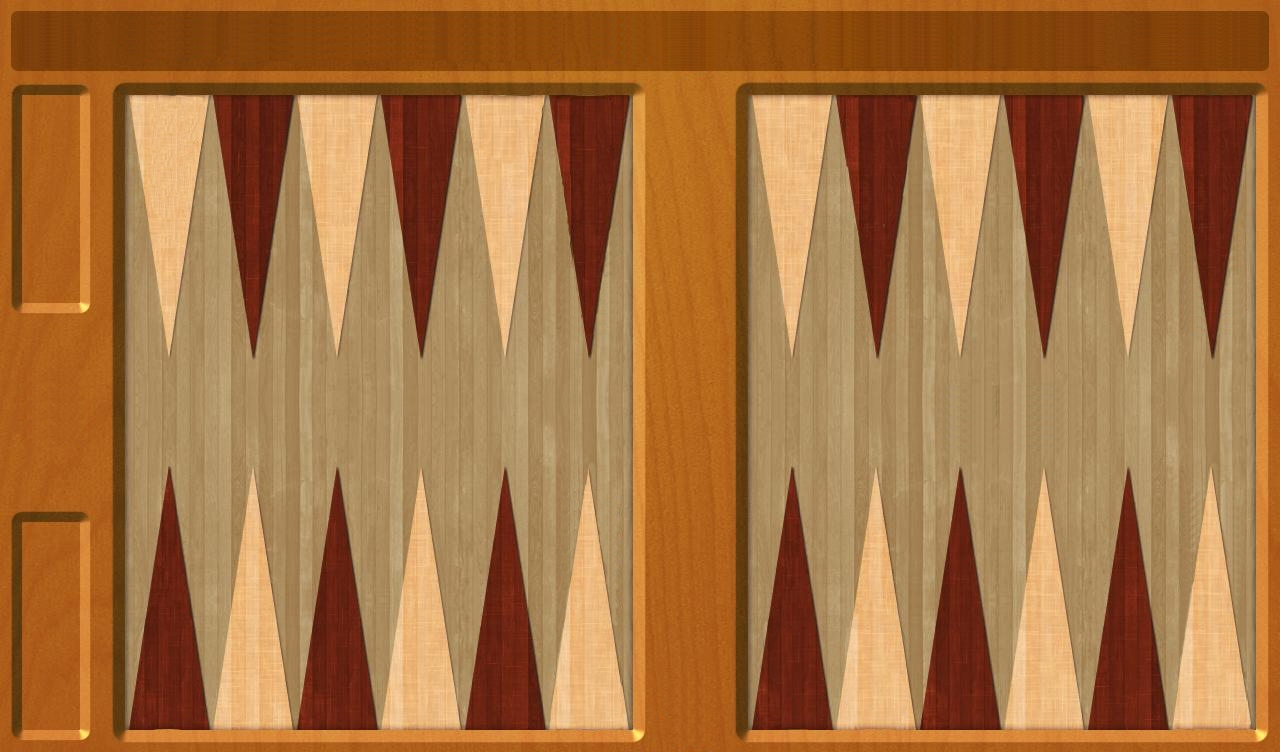
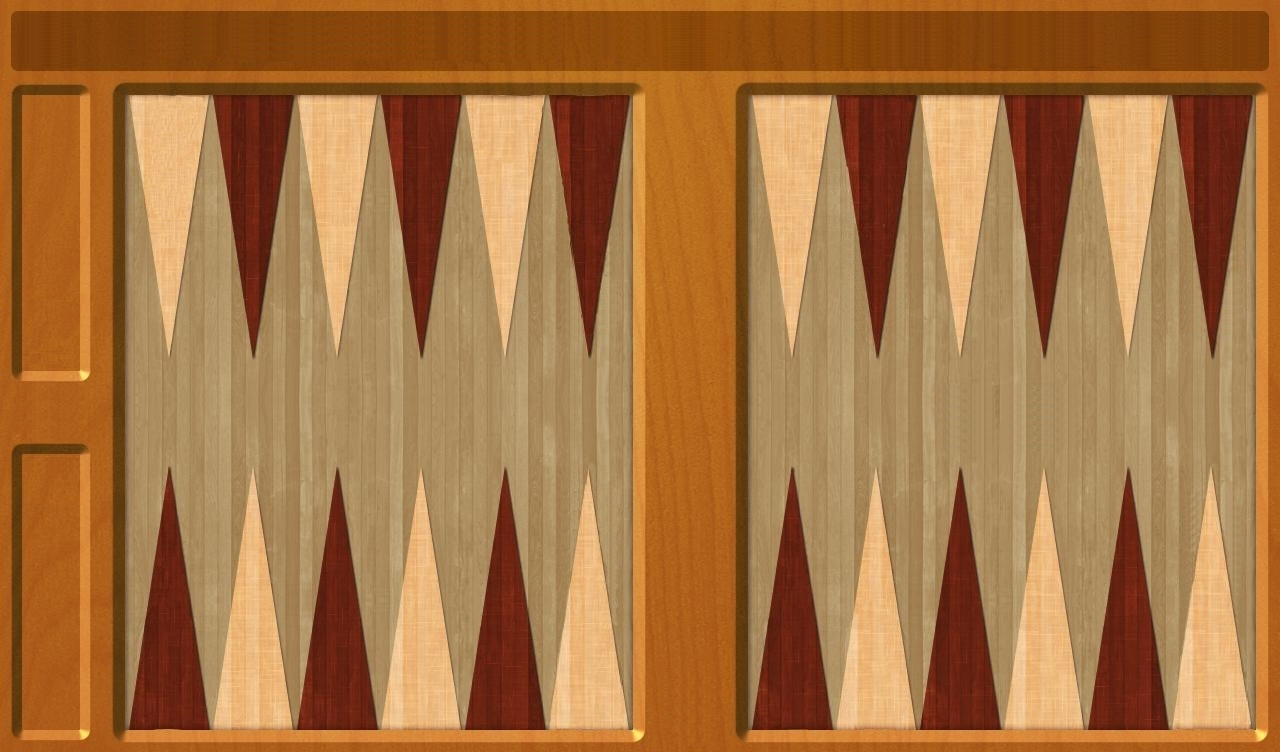
2

Changed region(s): [[0.0, 0.5811, 0.0938, 0.7035], [0.0, 0.3976, 0.0938, 0.5199]]

diff --git a/Projekat/app/src/main/java/com/example/emanu/pmu_projekat/Model.java b/Projekat/app/src/main/java/com/example/emanu/pmu_projekat/Model.java
@@ -52,10 +52,9 @@ public class Model {
     private float lastY;
     private float lastZ;
     private long lastShakeTime;
-
     private MediaPlayer mediaPlayer;
-
     private int BLABLA;
+
 
     public Model(String player1name, String player2name, boolean isPlayer1Black, boolean isComputer) {
         black.setColor(Color.BLACK);
@@ -121,15 +120,58 @@ public class Model {
             opponent = player2;
 
         availablePositions = new ArrayList<>();
+        boolean bearOffFlag = false;
         for (int i = 0; i < availableMoves.size(); i++){
             if(playerOnTurn.getColor().getColor() == Color.WHITE){
-                if((availableMoves.get(i) + sourceIndex) < 24 && opponent.getTriangles().get(availableMoves.get(i) + sourceIndex).size() < 2){
+                if(playerOnTurn.isBearingOff && availableMoves.get(i) + sourceIndex > 24 && !bearOffFlag){
+                    boolean lastNonEmpty = true;
+                    for(int j = sourceIndex - 1; j > 17; j--){
+                        if(playerOnTurn.triangles.get(j).size() > 0){
+                            lastNonEmpty = false;
+                            break;
+                        }
+                    }
+                    if(lastNonEmpty && sourceIndex > 18){
+                        Triangle newPosition = new Triangle(24, imageViewHeight, imageViewWidth);
+                        newPosition.setBearingOff(0);
+                        availablePositions.add(newPosition);
+                        bearOffFlag = true;
+                    }
+                }
+                else if(playerOnTurn.isBearingOff && availableMoves.get(i) + sourceIndex == 24 && !bearOffFlag){
+                    Triangle newPosition = new Triangle(24, imageViewHeight, imageViewWidth);
+                    newPosition.setBearingOff(0);
+                    availablePositions.add(newPosition);
+                    bearOffFlag = true;
+                }
+                else if((availableMoves.get(i) + sourceIndex) < 24 && opponent.getTriangles().get(availableMoves.get(i) + sourceIndex).size() < 2){
                     Triangle newPosition = new Triangle(availableMoves.get(i) + sourceIndex, imageViewHeight, imageViewWidth);
                     availablePositions.add(newPosition);
                 }
             }
             else{
-                if((sourceIndex - availableMoves.get(i)) >= 0 && opponent.getTriangles().get(sourceIndex - availableMoves.get(i)).size() < 2){
+                if(playerOnTurn.isBearingOff && sourceIndex - availableMoves.get(i) < -1 && !bearOffFlag){
+                    boolean lastNonEmpty = true;
+                    for(int j = sourceIndex + 1; j < 6; j++){
+                        if(playerOnTurn.triangles.get(j).size() > 0){
+                            lastNonEmpty = false;
+                            break;
+                        }
+                    }
+                    if(lastNonEmpty && sourceIndex < 5){
+                        Triangle newPosition = new Triangle(-1, imageViewHeight, imageViewWidth);
+                        newPosition.setBearingOff(1);
+                        availablePositions.add(newPosition);
+                        bearOffFlag = true;
+                    }
+                }
+                else if(playerOnTurn.isBearingOff && sourceIndex - availableMoves.get(i) == -1 && !bearOffFlag){
+                    Triangle newPosition = new Triangle(-1, imageViewHeight, imageViewWidth);
+                    newPosition.setBearingOff(1);
+                    availablePositions.add(newPosition);
+                    bearOffFlag = true;
+                }
+                else if((sourceIndex - availableMoves.get(i)) >= 0 && opponent.getTriangles().get(sourceIndex - availableMoves.get(i)).size() < 2){
                     Triangle newPosition = new Triangle(sourceIndex - availableMoves.get(i), imageViewHeight, imageViewWidth);
                     availablePositions.add(newPosition);
                 }
@@ -138,7 +180,7 @@ public class Model {
     }
 
     public void onActionDown(int x, int y) {
-//        if(gameStatus.equals(WAITING_FOR_MOVE)){
+//       todo if(gameStatus.equals(WAITING_FOR_MOVE)){
 
             int sourceTriangleIndex = selectChecker(x, y);
             if(currentChecker == null) return;
@@ -157,10 +199,7 @@ public class Model {
 
     public void onActionUp(int x, int y){
         if(currentChecker != null){
-            currentChecker.bearOff(0, BLABLA++);
-            currentChecker = null;
-        }
-        if(currentChecker != null){
+
             for (int i = 0; i < availablePositions.size(); i++) {
                 Triangle triangle = availablePositions.get(i);
                 int x1 = triangle.getX1();
@@ -169,13 +208,20 @@ public class Model {
                 int y2 = triangle.getY2();
                 int x3 = triangle.getX3();
                 int y3 = triangle.getY3();
-                if(isInAvailableSpot(x, y, x1, y1, x2, y2, x3, y3)){
+                if(triangle.isBearingOff() && isInAvailableSpot(x, y, x1, y1, x2, y2)){
+                    sourceTriangle.remove(currentChecker); //remove from old triangle
+                    currentChecker.bearOff(playerOnTurn.isWhite() ? 0 : 1, playerOnTurn.bearedOffCheckers.size());
+                    playerOnTurn.bearedOffCheckers.add(currentChecker);
+                    break;
+                }
+                else if(!triangle.isBearingOff() && isInAvailableSpot(x, y, x1, y1, x2, y2, x3, y3)){
                     opponent.eatOpponentsChecker(triangle.getTriangleIndex());
                     sourceTriangle.remove(currentChecker); //remove from old triangle
                     int position = playerOnTurn.getTriangles().get(triangle.getTriangleIndex()).size(); //position index in new triangle
                     playerOnTurn.getTriangles().get(triangle.getTriangleIndex()).add(currentChecker); //add checker to new triangle
                     currentChecker.setOnPosition(imageViewHeight, imageViewWidth, triangle.getTriangleIndex(), position); //change x,y coords
                     destinationTriangleIndex = triangle.getTriangleIndex();
+                    allInHomeBoard(playerOnTurn.isWhite() ? 0 : 1);
                     updateAvailableMoves();
                     break;
                 }
@@ -184,7 +230,6 @@ public class Model {
                     currentChecker.setY(oldY);
                 }
             }
-
             if(availablePositions.size() == 0){
                 currentChecker.setX(oldX);
                 currentChecker.setY(oldY);
@@ -193,6 +238,17 @@ public class Model {
             availablePositions = null;
             currentChecker = null;
         }
+    }
+
+    public void allInHomeBoard(int black){
+        for(int i = 0 + black * 6; i < 18 + black * 6; i++){
+            if(playerOnTurn.triangles.get(i).size() > 0){
+                playerOnTurn.isBearingOff = false;
+                return;
+            }
+        }
+
+        playerOnTurn.isBearingOff = true;
     }
 
     public void updateAvailableMoves(){
@@ -245,6 +301,10 @@ public class Model {
                 dice2.incOpacity();
             }
         }
+    }
+
+    public boolean isInAvailableSpot(int px, int py, int x1, int y1, int x2, int y2){
+        return px >= x1 && px <= x2 && py >= y1 && py <= y2;
     }
 
     public boolean isInAvailableSpot(int px, int py, int x1, int y1, int x2, int y2, int x3, int y3){

diff --git a/Projekat/app/src/main/java/com/example/emanu/pmu_projekat/Triangle.java b/Projekat/app/src/main/java/com/example/emanu/pmu_projekat/Triangle.java
@@ -11,6 +11,13 @@ import android.support.annotation.NonNull;
  */
 
 public class Triangle extends Figure {
+    public static final int BEAR_OFF_RADIUS = 15;
+    public static final double BEAR_OFF_X1 = 0.01;
+    public static final double BEAR_OFF_X2 = 0.07;
+    public static final double BEAR_OFF_Y1 = 0.591;
+    public static final double BEAR_OFF_Y2 = 0.987;
+    public static final double BEAR_OFF_OFFSET = 0.4785;
+
     public static final double OFFSET = 0.066;
     public static final double OFFSET2 = 0.092;
     public static final double POS_X1_UP = 0.10;
@@ -43,6 +50,8 @@ public class Triangle extends Figure {
     private int y2;
     private int y3;
 
+    private boolean bearingOff;
+
     public Triangle(int triangleIndex, int height, int width) {
         this.height = height;
         this.width = width;
@@ -56,6 +65,9 @@ public class Triangle extends Figure {
     public void draw(@NonNull Canvas canvas) {
         Path trianglePath = new Path();
         switch (triangleIndex){
+            case -1: case 24:
+                canvas.drawRoundRect(x1, y1, x2, y2, BEAR_OFF_RADIUS, BEAR_OFF_RADIUS, color);
+                break;
             case 0: case 1: case 2: case 3: case 4: case 5:
                 x1 = (int)(width * (POS_X1_UP + triangleIndex * OFFSET));
                 y1 = (int)(height * POS_Y1_UP);
@@ -108,6 +120,18 @@ public class Triangle extends Figure {
 
 
         canvas.drawPath(trianglePath, color);
+    }
+
+    public void setBearingOff(int black){
+        bearingOff = true;
+        x1 = (int) (width * BEAR_OFF_X1);
+        x2 = (int) (width * BEAR_OFF_X2);
+        y1 = (int) (height * (BEAR_OFF_Y1 - black * BEAR_OFF_OFFSET));
+        y2 = (int) (height * (BEAR_OFF_Y2 - black * BEAR_OFF_OFFSET));
+    }
+
+    public boolean isBearingOff() {
+        return bearingOff;
     }
 
     public int getX1() {

diff --git a/Projekat/app/src/main/java/com/example/emanu/pmu_projekat/Player.java b/Projekat/app/src/main/java/com/example/emanu/pmu_projekat/Player.java
@@ -15,9 +15,11 @@ public class Player {
     protected List<Checker> checkers = new ArrayList<>();
     protected List<List<Checker>> triangles = new ArrayList<List<Checker>>(24) ;
     protected List<Checker> eatenCheckers = new ArrayList<>();
+    protected List<Checker> bearedOffCheckers = new ArrayList<>();
     protected Paint color;
     protected int height;
     protected int width;
+    protected boolean isBearingOff;
 
     public Player(String name, Paint color) {
         this.name = name;
@@ -157,6 +159,14 @@ public class Player {
             checkers.add(checker);
             triangle8.add(checker);
         }
+    }
+
+    public boolean isBearingOff() {
+        return isBearingOff;
+    }
+
+    public void setBearingOff(boolean bearingOff) {
+        isBearingOff = bearingOff;
     }
 
     public void setHeightAndWidth(int h, int w) {

diff --git a/Projekat/app/src/main/java/com/example/emanu/pmu_projekat/Checker.java b/Projekat/app/src/main/java/com/example/emanu/pmu_projekat/Checker.java
@@ -83,8 +83,8 @@ public class Checker extends Figure {
         this.bearedOff = true;
         x = (int) (width * 0.02);
         x2 = (int) (width * 0.06);
-        y = (int) (height * (0.952 - index * 0.026 - blackChecker * 0.5));
-        y2 = (int) (height * (0.972 - index * 0.026 - blackChecker * 0.5));
+        y = (int) (height * (0.953 - index * 0.025 - blackChecker * 0.48));
+        y2 = (int) (height * (0.972 - index * 0.025 - blackChecker * 0.48));
     }
 
     public int getX() {
